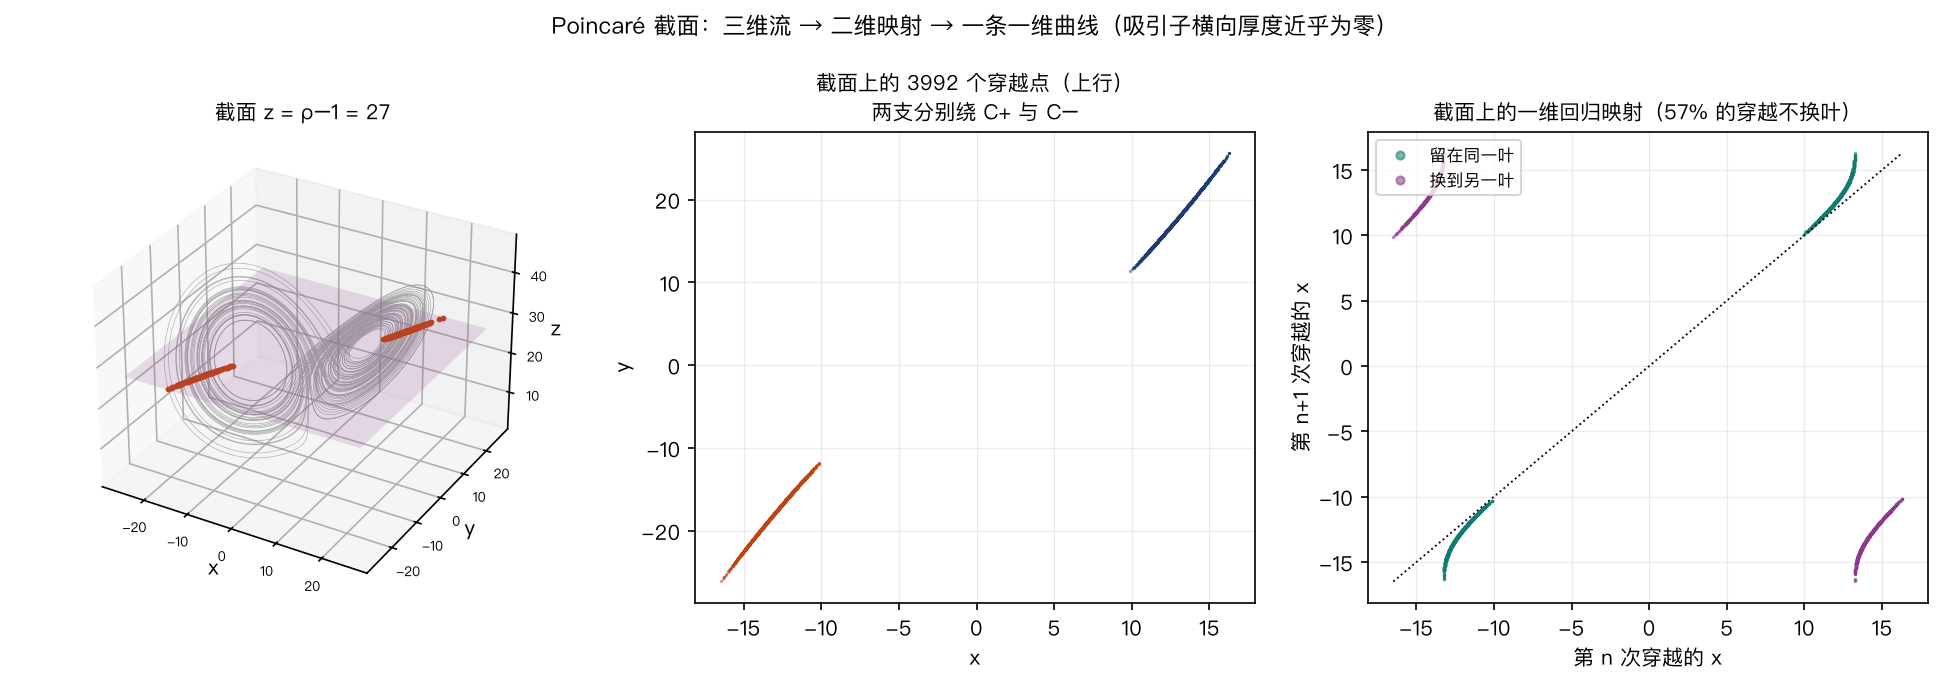
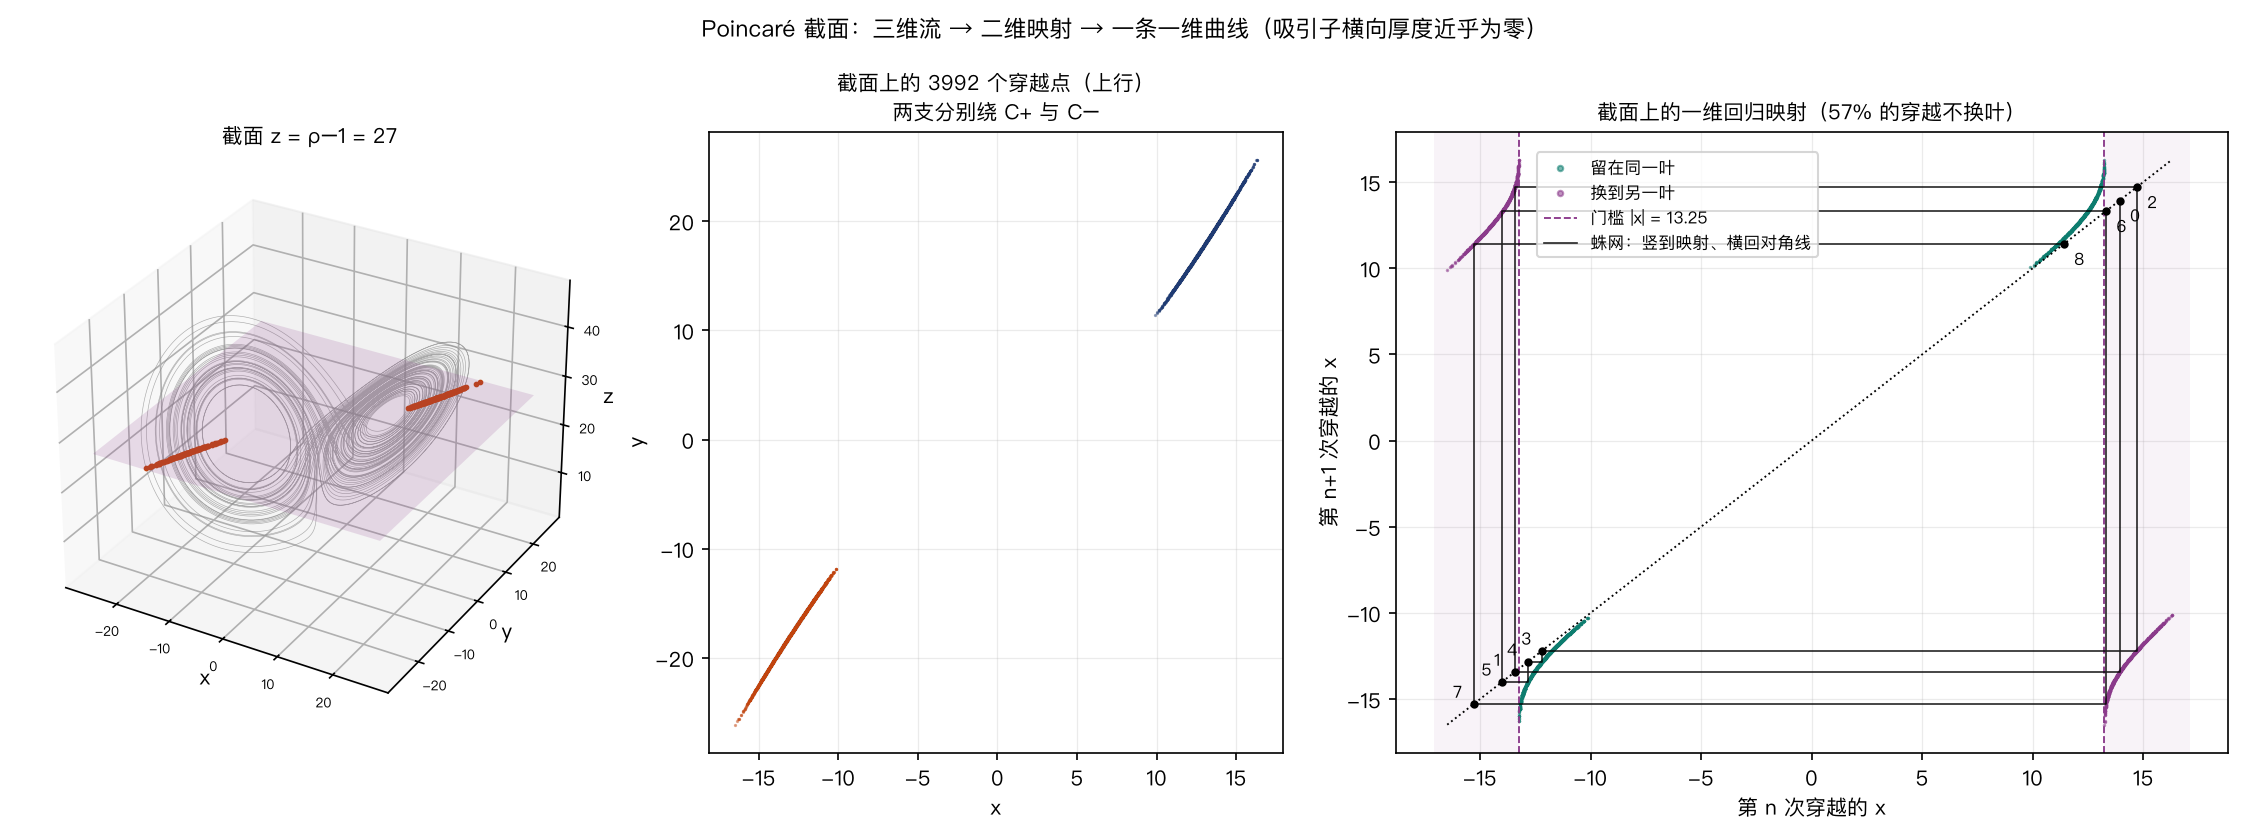
回归映射图画出换叶门槛和蛛网：门槛 |x|≈13.25 由数据里留叶与换叶的间隙求出（wing_switch_threshold，重叠就报错），前 8 次穿越走成蛛网，换叶一步横穿整张图；报告 §3.3 照着蛛网逐步读

diff --git a/src/lorenz63/figures.py b/src/lorenz63/figures.py
@@ -72,6 +72,7 @@ from lorenz63.statistics import (  # noqa: E402
     lorenz_map,
     poincare_section,
     section_return_map,
+    wing_switch_threshold,
 )
 from lorenz63.system import (  # noqa: E402
     RHO_HOMOCLINIC,
@@ -910,10 +911,11 @@ def fig14_poincare(output: Path) -> Path:
     data = _cached("section", _section_data)
     plane_z = CLASSICAL.rho - 1.0
 
-    fig = plt.figure(figsize=(13.0, 4.6))
+    fig = plt.figure(figsize=(15.0, 5.6))
+    grid = fig.add_gridspec(1, 3, width_ratios=[1.0, 1.0, 1.45])
 
     ax = _portrait_axes(
-        fig.add_subplot(1, 3, 1, projection="3d"), f"截面 z = ρ−1 = {plane_z:.0f}"
+        fig.add_subplot(grid[0], projection="3d"), f"截面 z = ρ−1 = {plane_z:.0f}"
     )
     ax.plot(data["orbit_x"], data["orbit_y"], data["orbit_z"], color=C_MUTED, lw=0.3, alpha=0.7)
     xs, ys, zs = plane_patch(
@@ -933,7 +935,7 @@ def fig14_poincare(output: Path) -> Path:
         depthshade=False,
     )
 
-    ax = _style(fig.add_subplot(1, 3, 2))
+    ax = _style(fig.add_subplot(grid[1]))
     right = data["sec_x"] > 0.0
     ax.plot(data["sec_x"][right], data["sec_y"][right], ".", color=C_REF, ms=1.1, alpha=0.5)
     ax.plot(data["sec_x"][~right], data["sec_y"][~right], ".", color=C_LOOSE, ms=1.1, alpha=0.5)
@@ -943,7 +945,7 @@ def fig14_poincare(output: Path) -> Path:
         f"截面上的 {data['sec_x'].size} 个穿越点（上行）\n两支分别绕 C+ 与 C−", fontsize=10
     )
 
-    ax = _style(fig.add_subplot(1, 3, 3))
+    ax = _style(fig.add_subplot(grid[2]))
     same_wing = np.sign(data["map_n"]) == np.sign(data["map_next"])
     for mask, colour, label in (
         (same_wing, C_MID, "留在同一叶"),
@@ -961,12 +963,39 @@ def fig14_poincare(output: Path) -> Path:
     lo = float(min(data["map_n"].min(), data["map_next"].min()))
     hi = float(max(data["map_n"].max(), data["map_next"].max()))
     ax.plot([lo, hi], [lo, hi], color="k", ls=":", lw=0.9)
+
+    # Outside the cutoff every crossing switches wing, inside it every one stays.
+    cutoff = wing_switch_threshold(data["map_n"], data["map_next"])
+    for side in (-1.0, 1.0):
+        ax.axvline(side * cutoff, color=C_ACCENT, ls="--", lw=0.9)
+        ax.axvspan(side * cutoff, side * hi * 1.05, color=C_ACCENT, alpha=0.06, lw=0)
+    ax.plot([], [], color=C_ACCENT, ls="--", lw=0.9, label=f"门槛 |x| = {cutoff:.2f}")
+
+    # Cobweb: up/down to the map gives x_{n+1}, across to the diagonal makes it
+    # the next x_n. The first crossings already show a run of switches and a stay.
+    steps = 8
+    walk = np.concatenate([data["map_n"][:1], data["map_next"][:steps]])
+    web_x = np.repeat(walk, 2)[1:-1]
+    web_y = np.repeat(walk, 2)[2:]
+    ax.plot(
+        np.concatenate([walk[:1], web_x]),
+        np.concatenate([walk[:1], web_y]),
+        color="k",
+        lw=0.8,
+        alpha=0.85,
+        label="蛛网：竖到映射、横回对角线",
+    )
+    ax.plot(walk, walk, "o", color="k", ms=3.0)
+    for k, v in enumerate(walk):
+        # Left wing labels go above-left of the diagonal, right wing below-right.
+        offset = (-10, 3) if v < 0 else (5, -10)
+        ax.annotate(str(k), (v, v), xytext=offset, textcoords="offset points", fontsize=8)
     ax.set_xlabel("第 n 次穿越的 x")
     ax.set_ylabel("第 n+1 次穿越的 x")
     ax.set_title(
         f"截面上的一维回归映射（{same_wing.mean() * 100:.0f}% 的穿越不换叶）", fontsize=10
     )
-    ax.legend(loc="upper left", fontsize=8, markerscale=6)
+    ax.legend(loc="upper left", bbox_to_anchor=(0.16, 0.98), fontsize=8, markerscale=4)
 
     fig.suptitle(
         "Poincaré 截面：三维流 → 二维映射 → 一条一维曲线（吸引子横向厚度近乎为零）",

diff --git a/tests/test_statistics.py b/tests/test_statistics.py
@@ -18,6 +18,8 @@ from lorenz63.statistics import (
     lorenz_map,
     map_thickness,
     poincare_section,
+    section_return_map,
+    wing_switch_threshold,
 )
 from lorenz63.system import LorenzParams
 
@@ -116,6 +118,27 @@ def test_poincare_directions_are_disjoint_but_equinumerous(long_trajectory) -> N
 
 def test_poincare_returns_empty_for_an_unreached_plane(long_trajectory) -> None:
     assert poincare_section(long_trajectory, plane_z=1e6).shape == (0, 3)
+
+
+def test_wing_switch_threshold_sits_in_the_gap() -> None:
+    s_n = np.array([10.0, -12.0, 14.0, -16.0])
+    s_next = np.array([12.0, -14.0, -16.0, 10.0])  # inside 12 stays, outside 14 switches
+    assert wing_switch_threshold(s_n, s_next) == pytest.approx(13.0)
+
+
+def test_wing_switch_threshold_refuses_overlap() -> None:
+    s_n = np.array([10.0, 15.0, 14.0])
+    s_next = np.array([12.0, 14.0, -10.0])  # 15 stays but 14 switches
+    with pytest.raises(ValueError, match="overlap"):
+        wing_switch_threshold(s_n, s_next)
+
+
+def test_wing_switch_is_decided_by_one_cutoff(long_trajectory) -> None:
+    """On the attractor, staying or switching wing is a function of |x| alone."""
+    crossings = poincare_section(long_trajectory, plane_z=CLASSICAL.rho - 1.0)
+    x_n, x_next = section_return_map(crossings)
+    cutoff = wing_switch_threshold(x_n, x_next)
+    assert np.abs(x_n).min() < cutoff < np.abs(x_n).max()
 
 
 def test_invariant_density_normalises(long_trajectory) -> None:

diff --git a/src/lorenz63/statistics.py b/src/lorenz63/statistics.py
@@ -121,6 +121,28 @@ def section_return_map(
     return values[:-1], values[1:]
 
 
+def wing_switch_threshold(
+    s_n: NDArray[np.floating], s_next: NDArray[np.floating]
+) -> float:
+    """The |s| that separates crossings which stay on their wing from those that switch.
+
+    On the classical attractor the choice is not statistical: every crossing
+    inside a cutoff |x| stays on its wing (s_{n+1} has the same sign) and every
+    crossing outside it switches. Returns the midpoint of the gap between the
+    outermost staying crossing and the innermost switching one; raises if the
+    two sets overlap, because then no single cutoff exists.
+    """
+    reach = np.abs(s_n)
+    stays = np.sign(s_n) == np.sign(s_next)
+    if stays.all() or not stays.any():
+        raise ValueError("need both staying and switching crossings")
+    outer_stay = float(reach[stays].max())
+    inner_switch = float(reach[~stays].min())
+    if outer_stay >= inner_switch:
+        raise ValueError("staying and switching crossings overlap; no single cutoff")
+    return 0.5 * (outer_stay + inner_switch)
+
+
 def invariant_density(
     values: NDArray[np.floating],
     *,

diff --git a/report/report.md b/report/report.md
@@ -370,6 +370,21 @@ C±     −13.854578,  +0.093956 ± 10.194505 i       一实一对 → 收缩方
 
 所以紫色可以连续出现：换叶之后紧接着再换的概率是 47%，和换叶的总体比例 43% 差不多；3992 次穿越里最长一串连换 9 次（RLRLRLRLRL）。一叶上连续绕的圈数从 1 到 14 不等，只绕 1 圈就走的最多。哪一种全由那一个 |x| 决定，而 |x| 每步都被拉开（|F′|>1）——门槛附近差一点，后面绕几圈、换几次就全不一样。
 
+右格里紫色虚线就是 x = ±13.25，浅紫的两条带是换叶区。黑线是**蛛网图**，把前 8 次穿越一步步走出来：从对角线上的点竖直走到映射曲线，读出下一次的 x；再水平走回对角线 y=x，那个值就成了新的出发点。换叶的一步，竖线要穿过整个横轴到对面，再横穿整张图回到对角线的另一头，一眼就看得出：
+
+| 步 | x | 落在哪 | 下一步 |
+|---|---|---|---|
+| 0 | 13.9 | 门槛外 | 换 |
+| 1 | −13.4 | 门槛外，只越过 0.2 | 换，落得远 |
+| 2 | 14.7 | 门槛外 | 换 |
+| 3, 4 | −12.2, −12.8 | 门槛内 | 留，往外绕 |
+| 5 | −14.0 | 门槛外 | 换 |
+| 6 | 13.3 | 门槛外，只越过 0.06 | 换，落得最远 |
+| 7 | −15.3 | 门槛外，越过 2 | 换，落到中心附近 |
+| 8 | 11.4 | 门槛内 | 在右叶上绕好几圈 |
+
+0→1→2→3 连换三次就是 RLRL 的乒乓；6→7 是「刚越过门槛就被甩到对面最外圈」，7→8 是「越过得多反而落到对面中心」。
+
 ### 3.4 Lyapunov 指数与 QR 重正交化
 
 **λ 是什么。** 用 §2.0 的记号：轨道旁的小扰动满足 δu̇ = J(u(t)) δu，解是 δu(t) = M(t) δu₀，M′ = J M、M(0) = I。M(t) 把初始扰动送到 t 时刻。Lyapunov 指数是它的长期对数增长率：
